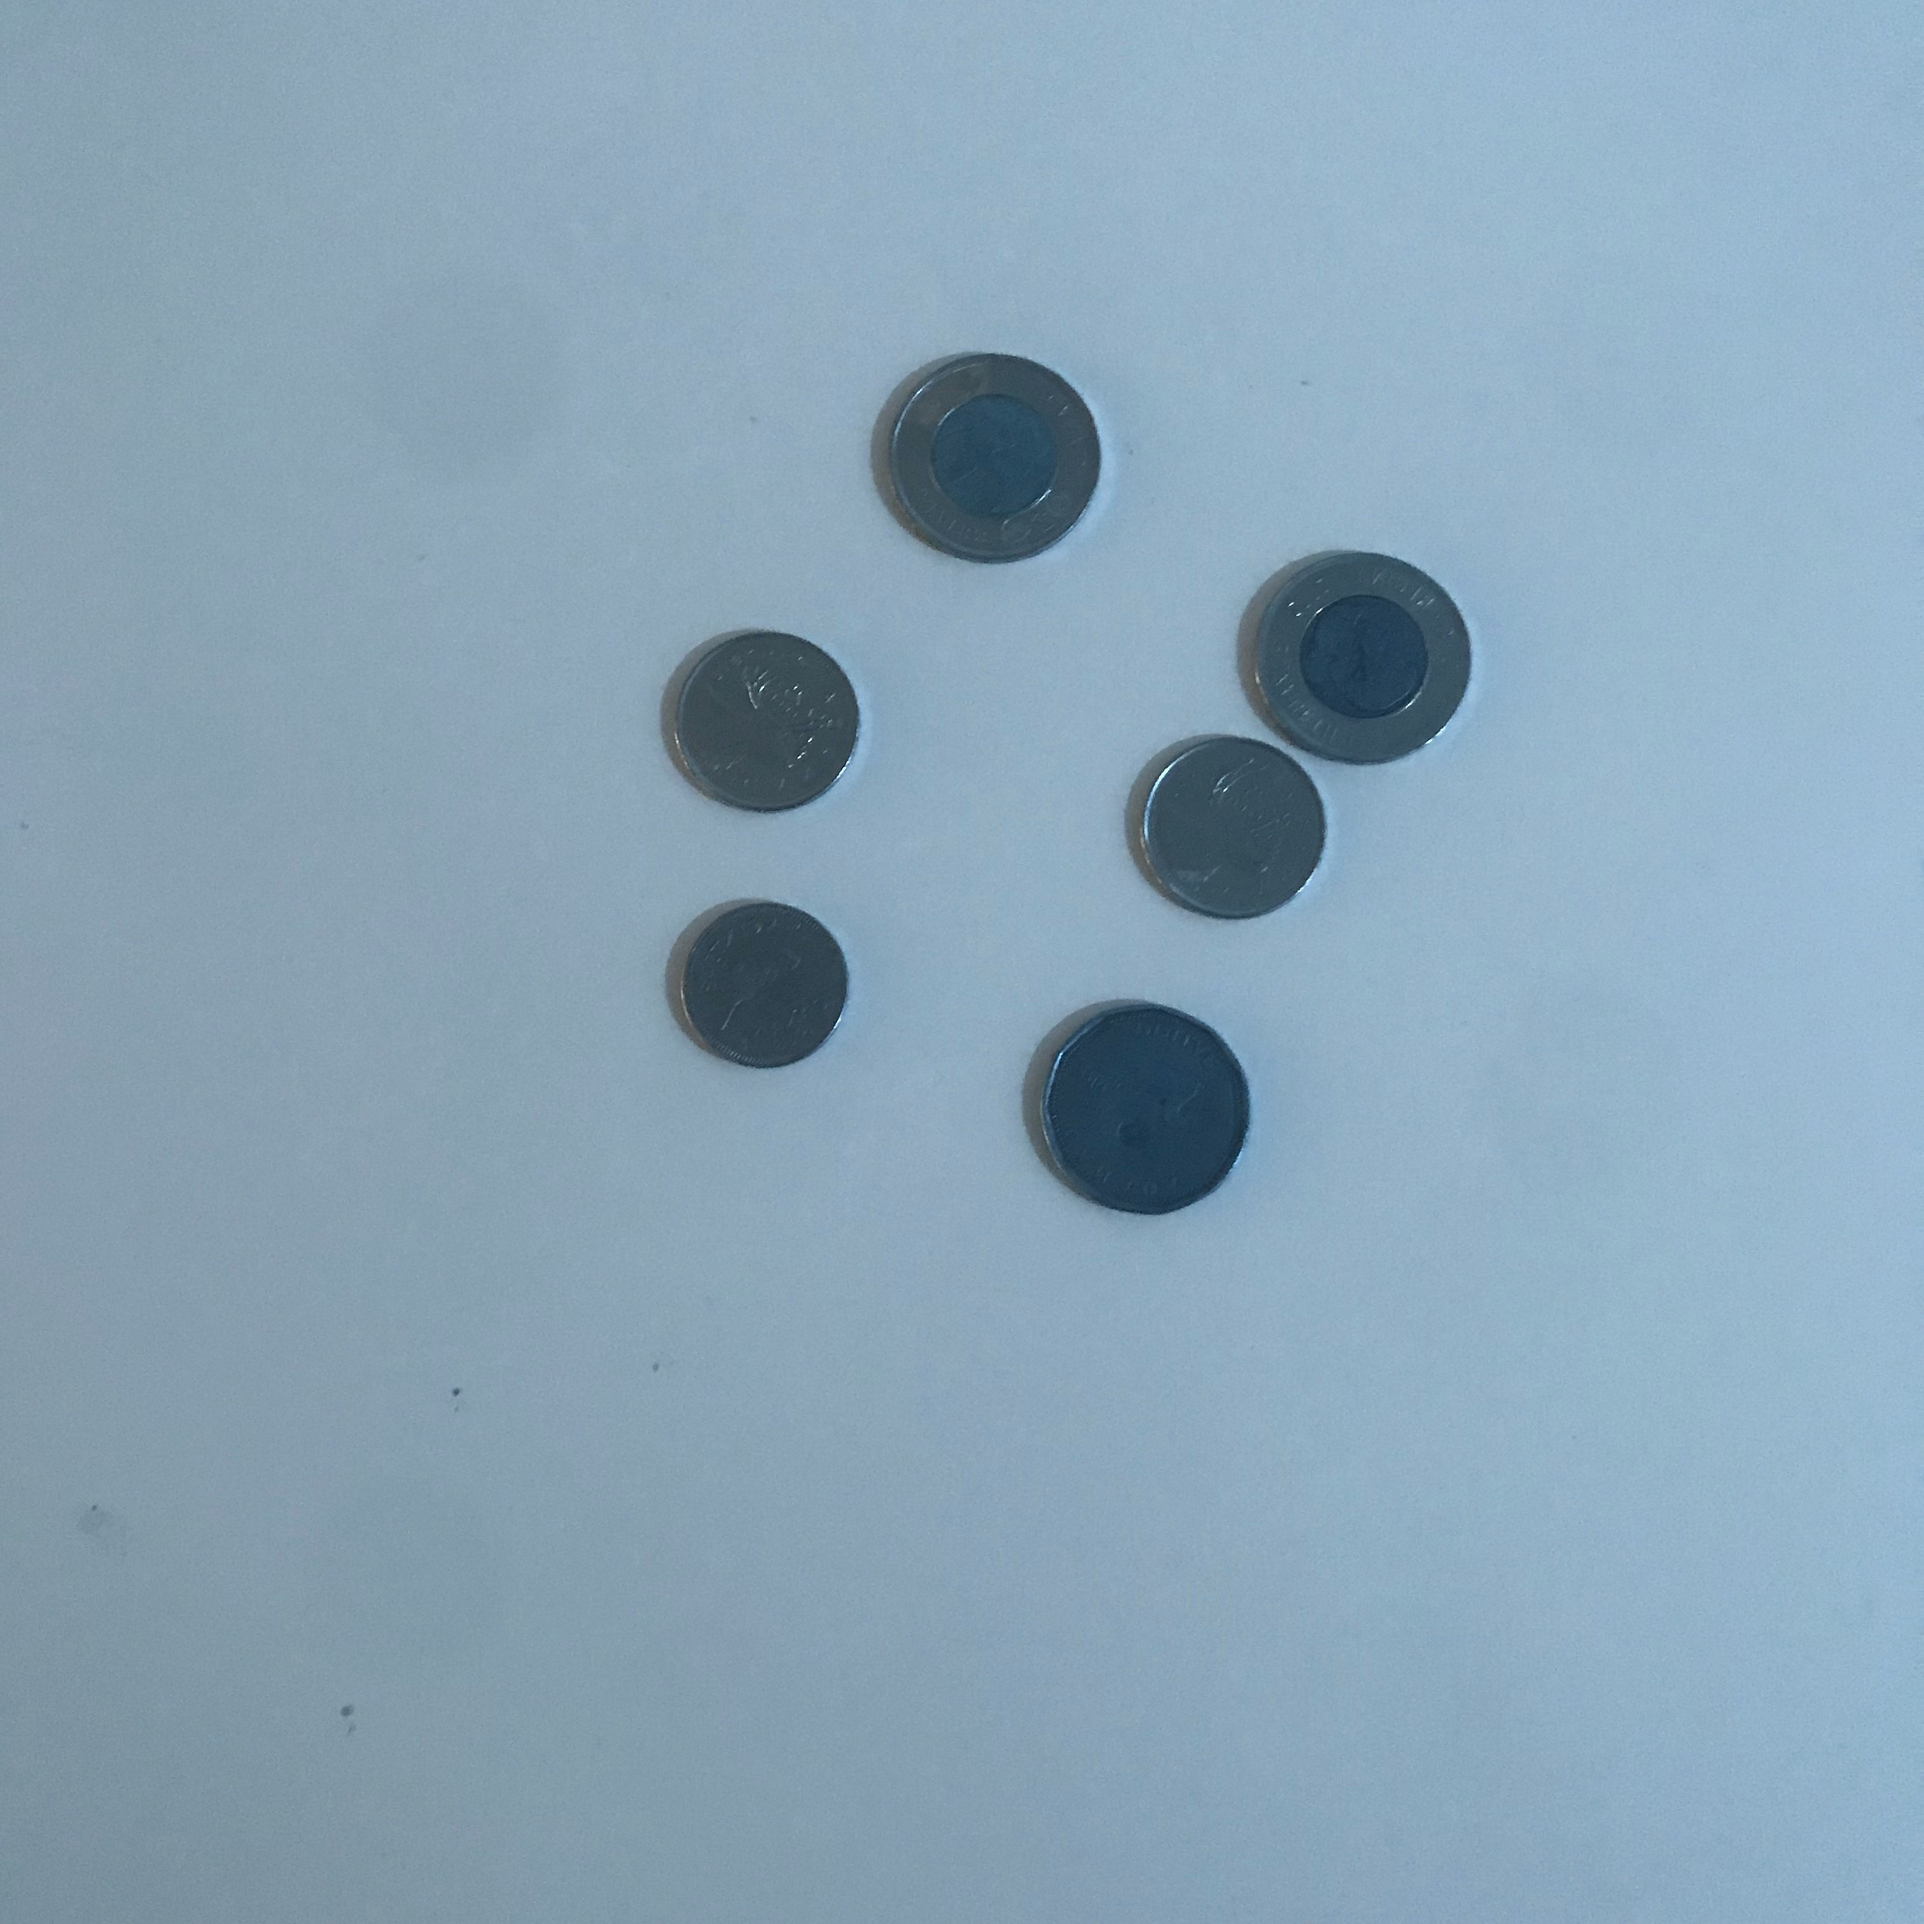
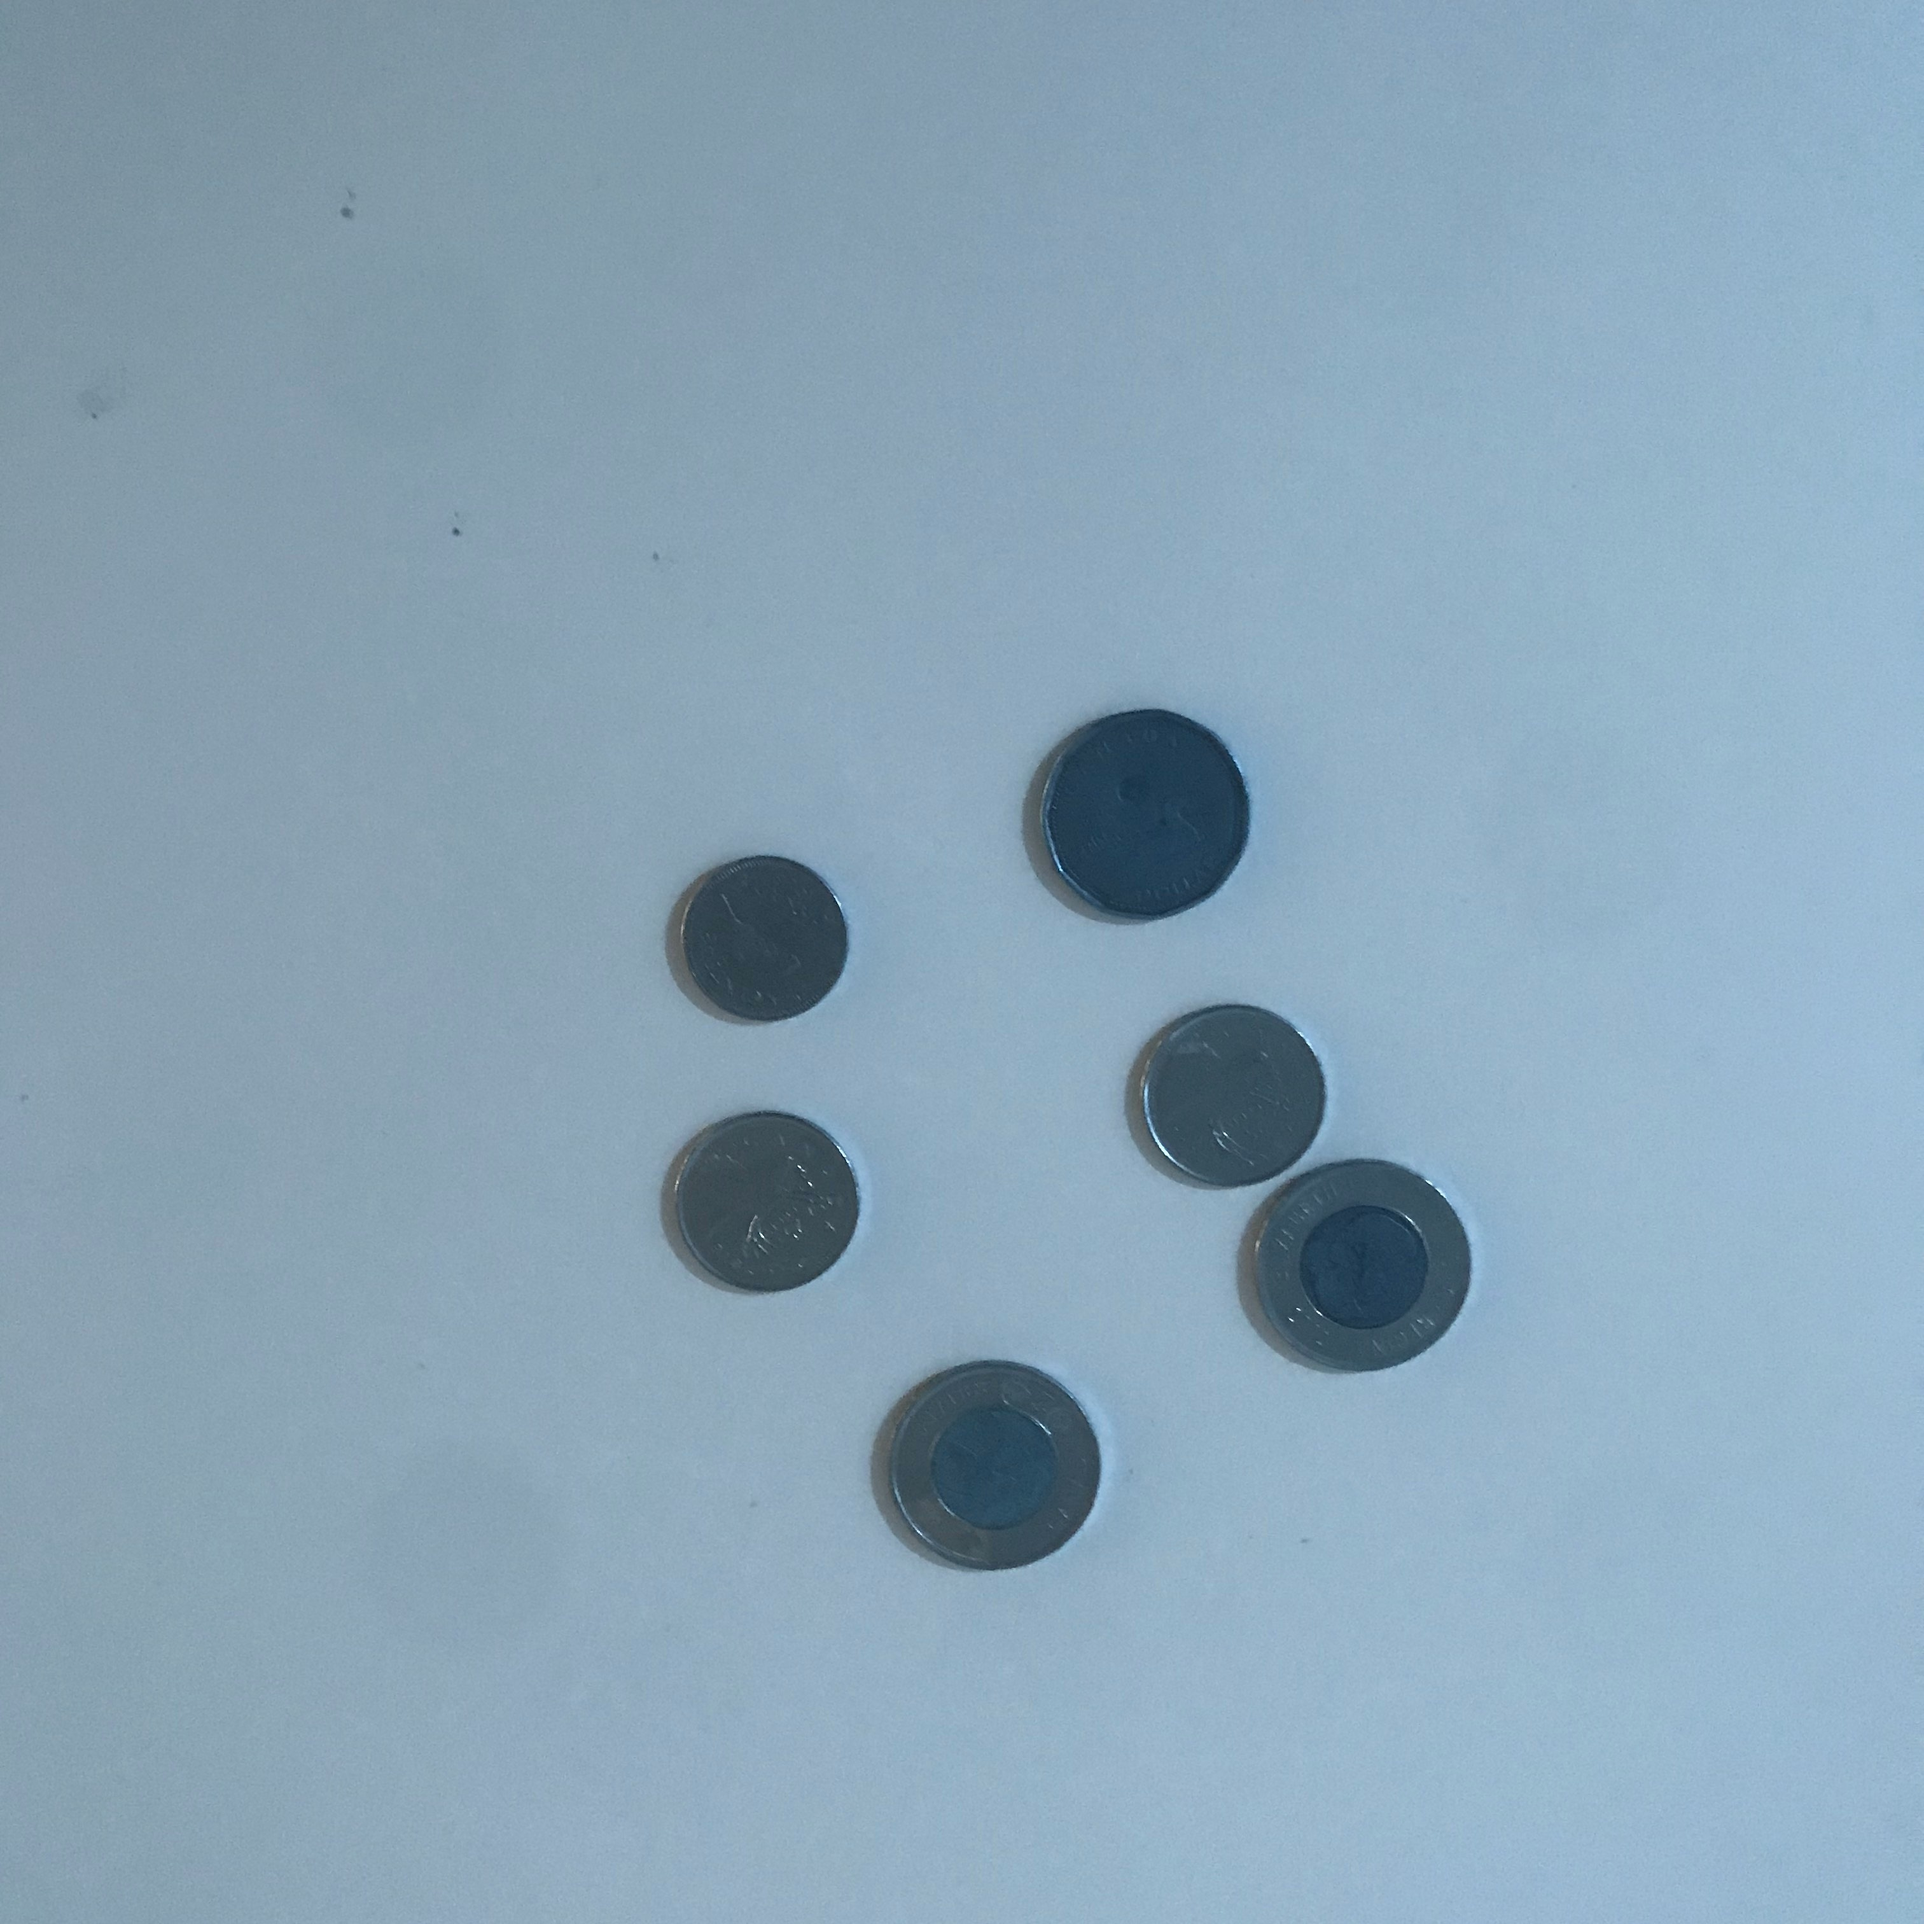
working data augmentation for 180 rotation (correct labels)

diff --git a/Data_augmentation/data_augment.py b/Data_augmentation/data_augment.py
@@ -20,6 +20,7 @@ def load_images_from_folder(folder):
             images.append(img)
     return images
 
+#require a one to one mapping from image names to label names
 def check_dataset_proper(images,labels):
     image_indexes = []
     label_indexes = []
@@ -31,11 +32,42 @@ def check_dataset_proper(images,labels):
         return True
     return False
 
-
+#show a numpy image
 def show_numpy_image(image):
     plt.imshow(image)
     imageplot = plt.imshow(image)
     plt.show()
+
+#check if transformed image is same as original image
+#need dimensions of 2 images to be the same
+def check_same_image_need_same_size(image,transformed_image):
+    equality = torch.eq(image,transformed_image)
+    equality = equality.reshape(-1)
+    equality = equality.tolist()
+    if False in equality:
+        return False
+    return True
+    
+def relabel_coords_horizontal_flip(label_index,image,labels):
+    for j in range(len(labels[labels_image_index_to_list_index[index_of_image]])):
+        labels[label_index][j][0] = int((labels[label_index][j][0]-(image.shape[1]/2)) * (-1) + (image.shape[1]/2))
+
+
+#relabel the coordinates in labels for 180 rotation
+def relabel_coords_180_rotation(label_index,image,labels):
+    for j in range(len(labels[label_index])):
+        x,y = labels[label_index][j][0],labels[label_index][j][1]
+        x_mid,y_mid = int(image.shape[1]/2),int(image.shape[2]/2)
+
+        #make origin center of image
+        x,y = x-x_mid,y-y_mid
+        #perform 180 rotation == reflection in x and y axis
+        x,y = -x,-y
+        #shift back origin
+        x,y = x+x_mid, y+y_mid
+        
+        #reassign x,y
+        labels[label_index][j][0], labels[label_index][j][1]= x,y
 
 
 #get folder path through command line
@@ -79,7 +111,17 @@ original_labels = labels[:]
 
 
 horizontal_flip_transforms = transforms.Compose([
-    transforms.RandomHorizontalFlip(p=1)
+    #transforms.RandomHorizontalFlip(p=1)
+    #transforms.RandomPerspective(distortion_scale=0.5, p=1, interpolation=2, fill=0)
+    #transforms.RandomResizedCrop((600,600), scale=(0.08, 1.0), ratio=(0.75, 1.3333333333333333), interpolation=2)  #transforms.Resize(size, interpolation=2)
+    transforms.RandomAffine((180,180), translate=None, scale=None, shear=None, resample=0, fillcolor=0)
+    #transforms.ColorJitter(brightness=0, contrast=0, saturation=0, hue=0)
+    #transforms.functional.adjust_brightness(img: torch.Tensor, brightness_factor: float)
+    #transforms.functional.adjust_contrast(img: torch.Tensor, contrast_factor: float)
+    #transforms.functional.adjust_gamma(img: torch.Tensor, gamma: float, gain: float = 1)
+    #transforms.functional.adjust_saturation(img: torch.Tensor, saturation_factor: float)
+    #transforms.functional.rotate(img: torch.Tensor, angle: float, resample: int = 0, expand: bool = False, center: Optional[List[int]] = None, fill: Optional[int] = None) 
+
 ])
 
 import copy
@@ -97,22 +139,30 @@ for idx,i in enumerate(all_images):
     image = image.permute(2,0,1)
     transformed_image = horizontal_flip_transforms(image)
 
-    #adjust label if flipped
-    equality = torch.eq(image,transformed_image)
-    equality = equality.reshape(-1)
-    equality = equality.tolist()
-    if False in equality:
-        for j in range(len(labels[labels_image_index_to_list_index[index_of_image]])):
-            labels[labels_image_index_to_list_index[index_of_image]][j][0] = int((labels[labels_image_index_to_list_index[index_of_image]][j][0]-(image.shape[1]/2)) * (-1) + (image.shape[1]/2))
+    #adjust label accordingly if transform was applied
+    label_index = labels_image_index_to_list_index[index_of_image]
+    same_image = check_same_image_need_same_size(image,transformed_image)
+    
+    #adjust for horizontal flip
+    '''
+    if not same_image:
+        relabel_coords_horizontal_flip(label_index,image,labels)
+    '''
+    #adjust for rotation
+    label_index = labels_image_index_to_list_index[index_of_image]
+    relabel_coords_180_rotation(label_index,image,labels)
+    
 
     #permute back
     transformed_image = transformed_image.permute(1,2,0)
     transformed_image = transformed_image.numpy()
-    show_numpy_image(transformed_image)
+    #show_numpy_image(transformed_image)
+    #cv2.imshow(f'Hello',transformed_image)
+    #could write some function to display the image and see if it's okay, if good then we can write it
+    #cv2.imshow(f'Image {i}', img)  # All circled
+    #key = cv2.waitKey(0)
     
-    
-    
-    
+    #transformed_image[0,:,:],transformed_image[1,:,:],transformed_image[2,:,:] = transformed_image[2,:,:],transformed_image[0,:,:],transformed_image[1,:,:]
     cv2.imwrite(f'{args.save_images_folder_path}/{index_of_image}.jpg', transformed_image)
     with open(f'{args.save_labels_folder_path}/{index_of_image}.txt', 'w') as f:
         for j in range(len(labels[labels_image_index_to_list_index[index_of_image]])):
